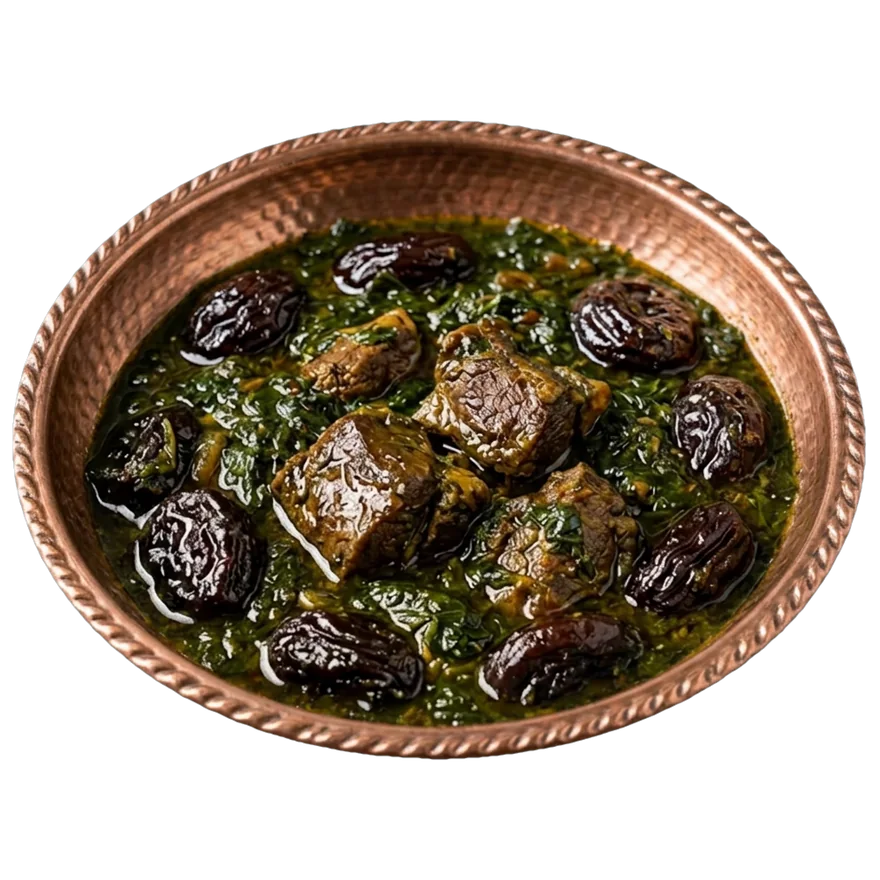
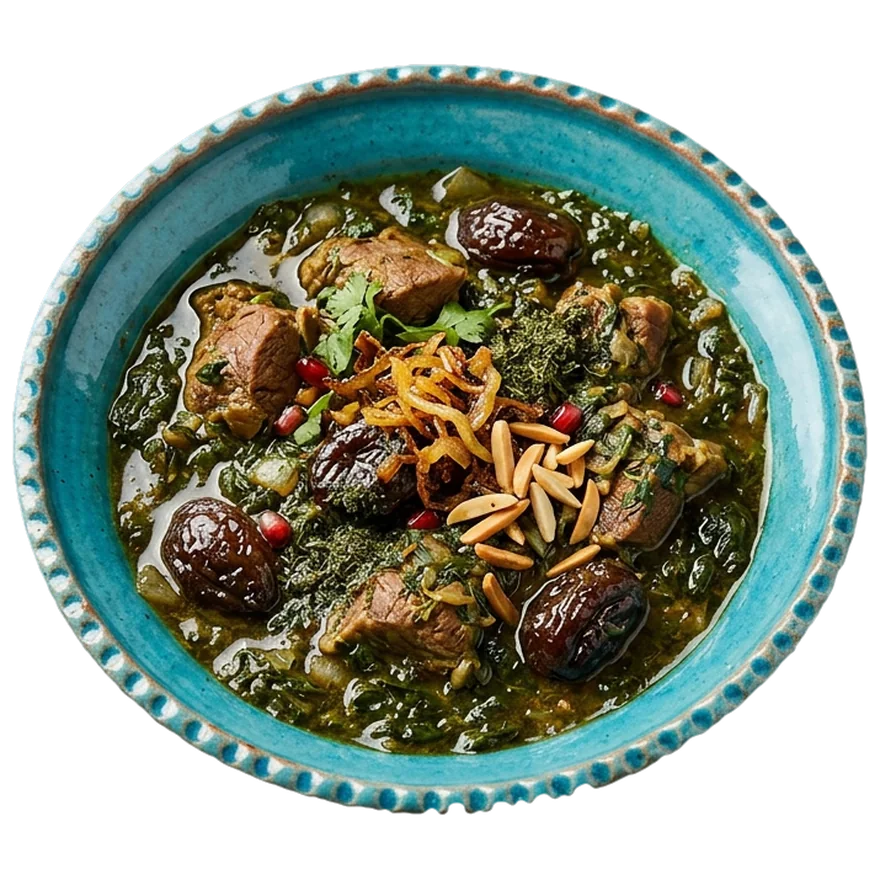
v29: دور دوم سفال فیروزهای — ۷ خورش و قیمهنثار و زرشکپلو و آلبالوپلو و عدسپلو همگی سفالی فیروزهای، کامل در کادر؛ هیچ ظرف مسی در این نماها نماند

diff --git a/menu.html b/menu.html
@@ -274,8 +274,8 @@
 <article class="dish reveal" data-cat="khoresh">
       <div class="dish-media">
         <div class="window"><div class="glass">
-          <img src="assets/img/dish-gheymeh-480.webp?v=27"
-               srcset="assets/img/dish-gheymeh-480.webp?v=27 480w, assets/img/dish-gheymeh-880.webp?v=27 880w"
+          <img src="assets/img/dish-gheymeh-480.webp?v=30"
+               srcset="assets/img/dish-gheymeh-480.webp?v=30 480w, assets/img/dish-gheymeh-880.webp?v=30 880w"
                sizes="(max-width: 700px) 86vw, 340px"
                alt="خورش قیمه: خورشت لپه و گوشت با سیبزمینی سرخکرده و زعفران" loading="lazy">
         </div>
@@ -293,8 +293,8 @@
 <article class="dish reveal" data-cat="khoresh">
       <div class="dish-media">
         <div class="window"><div class="glass">
-          <img src="assets/img/dish-fesenjan-480.webp?v=27"
-             srcset="assets/img/dish-fesenjan-480.webp?v=27 480w, assets/img/dish-fesenjan-880.webp?v=27 880w"
+          <img src="assets/img/dish-fesenjan-480.webp?v=30"
+             srcset="assets/img/dish-fesenjan-480.webp?v=30 480w, assets/img/dish-fesenjan-880.webp?v=30 880w"
              sizes="(max-width: 700px) 86vw, 340px"
              alt="خورش فسنجان با گردوی ساییده و رب انار، آراسته با دانههای انار و مغز گردو" loading="lazy">
         </div>
@@ -313,8 +313,8 @@
 <article class="dish reveal" data-cat="khoresh">
       <div class="dish-media">
         <div class="window"><div class="glass">
-          <img src="assets/img/dish-nesar-480.webp"
-               srcset="assets/img/dish-nesar-480.webp 480w, assets/img/dish-nesar-880.webp 880w"
+          <img src="assets/img/dish-nesar-480.webp?v=30"
+               srcset="assets/img/dish-nesar-480.webp?v=30 480w, assets/img/dish-nesar-880.webp?v=30 880w"
                sizes="(max-width: 700px) 86vw, 340px"
                alt="قیمهنثار: پلوی زعفرانی با خلال پسته و بادام و خورش گوشت" loading="lazy">
         </div>
@@ -332,8 +332,8 @@
 <article class="dish reveal" data-cat="khoresh">
       <div class="dish-media">
         <div class="window"><div class="glass">
-          <img src="assets/img/dish-beh-480.webp?v=27"
-               srcset="assets/img/dish-beh-480.webp?v=27 480w, assets/img/dish-beh-880.webp?v=27 880w"
+          <img src="assets/img/dish-beh-480.webp?v=30"
+               srcset="assets/img/dish-beh-480.webp?v=30 480w, assets/img/dish-beh-880.webp?v=30 880w"
                sizes="(max-width: 700px) 86vw, 340px"
                alt="خورش به: تکههای به و مرغ در سس زعفرانی" loading="lazy">
         </div>
@@ -351,8 +351,8 @@
 <article class="dish reveal" data-cat="khoresh">
       <div class="dish-media">
         <div class="window"><div class="glass">
-          <img src="assets/img/dish-kerefs-480.webp?v=27"
-               srcset="assets/img/dish-kerefs-480.webp?v=27 480w, assets/img/dish-kerefs-880.webp?v=27 880w"
+          <img src="assets/img/dish-kerefs-480.webp?v=30"
+               srcset="assets/img/dish-kerefs-480.webp?v=30 480w, assets/img/dish-kerefs-880.webp?v=30 880w"
                sizes="(max-width: 700px) 86vw, 340px"
                alt="خورش کرفس: کرفس و گوشت در سس سبزی" loading="lazy">
         </div>
@@ -370,8 +370,8 @@
 <article class="dish reveal" data-cat="khoresh">
       <div class="dish-media">
         <div class="window"><div class="glass">
-          <img src="assets/img/dish-alooesfenaj-480.webp?v=27"
-               srcset="assets/img/dish-alooesfenaj-480.webp?v=27 480w, assets/img/dish-alooesfenaj-880.webp?v=27 880w"
+          <img src="assets/img/dish-alooesfenaj-480.webp?v=30"
+               srcset="assets/img/dish-alooesfenaj-480.webp?v=30 480w, assets/img/dish-alooesfenaj-880.webp?v=30 880w"
                sizes="(max-width: 700px) 86vw, 340px"
                alt="آلو اسفناج: خورش اسفناج و آلو با گوشت" loading="lazy">
         </div>
@@ -389,8 +389,8 @@
 <article class="dish reveal" data-cat="khoresh">
       <div class="dish-media">
         <div class="window"><div class="glass">
-          <img src="assets/img/dish-ghaliehmahi-480.webp?v=27"
-               srcset="assets/img/dish-ghaliehmahi-480.webp?v=27 480w, assets/img/dish-ghaliehmahi-880.webp?v=27 880w"
+          <img src="assets/img/dish-ghaliehmahi-480.webp?v=30"
+               srcset="assets/img/dish-ghaliehmahi-480.webp?v=30 480w, assets/img/dish-ghaliehmahi-880.webp?v=30 880w"
                sizes="(max-width: 700px) 86vw, 340px"
                alt="قالیهی ماهی: خورش سبزی و ماهی جنوب با تمر هندی" loading="lazy">
         </div>
@@ -417,8 +417,8 @@
 <article class="dish reveal" data-cat="polo">
       <div class="dish-media">
         <div class="window"><div class="glass">
-          <img src="assets/img/dish-zereshk-480.webp"
-             srcset="assets/img/dish-zereshk-480.webp 480w, assets/img/dish-zereshk-880.webp 880w"
+          <img src="assets/img/dish-zereshk-480.webp?v=30"
+             srcset="assets/img/dish-zereshk-480.webp?v=30 480w, assets/img/dish-zereshk-880.webp?v=30 880w"
              sizes="(max-width: 700px) 86vw, 340px"
              alt="زرشکپلو با مرغ: ران مرغ خورشتی کنار پلوی زعفرانی با زرشک و پسته" loading="lazy">
         </div>
@@ -495,8 +495,8 @@
 <article class="dish reveal" data-cat="polo">
       <div class="dish-media">
         <div class="window"><div class="glass">
-          <img src="assets/img/dish-albaloo-480.webp"
-               srcset="assets/img/dish-albaloo-480.webp 480w, assets/img/dish-albaloo-880.webp 880w"
+          <img src="assets/img/dish-albaloo-480.webp?v=30"
+               srcset="assets/img/dish-albaloo-480.webp?v=30 480w, assets/img/dish-albaloo-880.webp?v=30 880w"
                sizes="(max-width: 700px) 86vw, 340px"
                alt="آلبالوپلو با مرغ: برنج با آلبالو، مرغ زعفرانی و خلال پسته" loading="lazy">
         </div>
@@ -514,8 +514,8 @@
 <article class="dish reveal" data-cat="polo">
       <div class="dish-media">
         <div class="window"><div class="glass">
-          <img src="assets/img/dish-adas-480.webp"
-               srcset="assets/img/dish-adas-480.webp 480w, assets/img/dish-adas-880.webp 880w"
+          <img src="assets/img/dish-adas-480.webp?v=30"
+               srcset="assets/img/dish-adas-480.webp?v=30 480w, assets/img/dish-adas-880.webp?v=30 880w"
                sizes="(max-width: 700px) 86vw, 340px"
                alt="عدسپلو: پلو با عدس و کشمش و خرما و پیازداغ" loading="lazy">
         </div>
